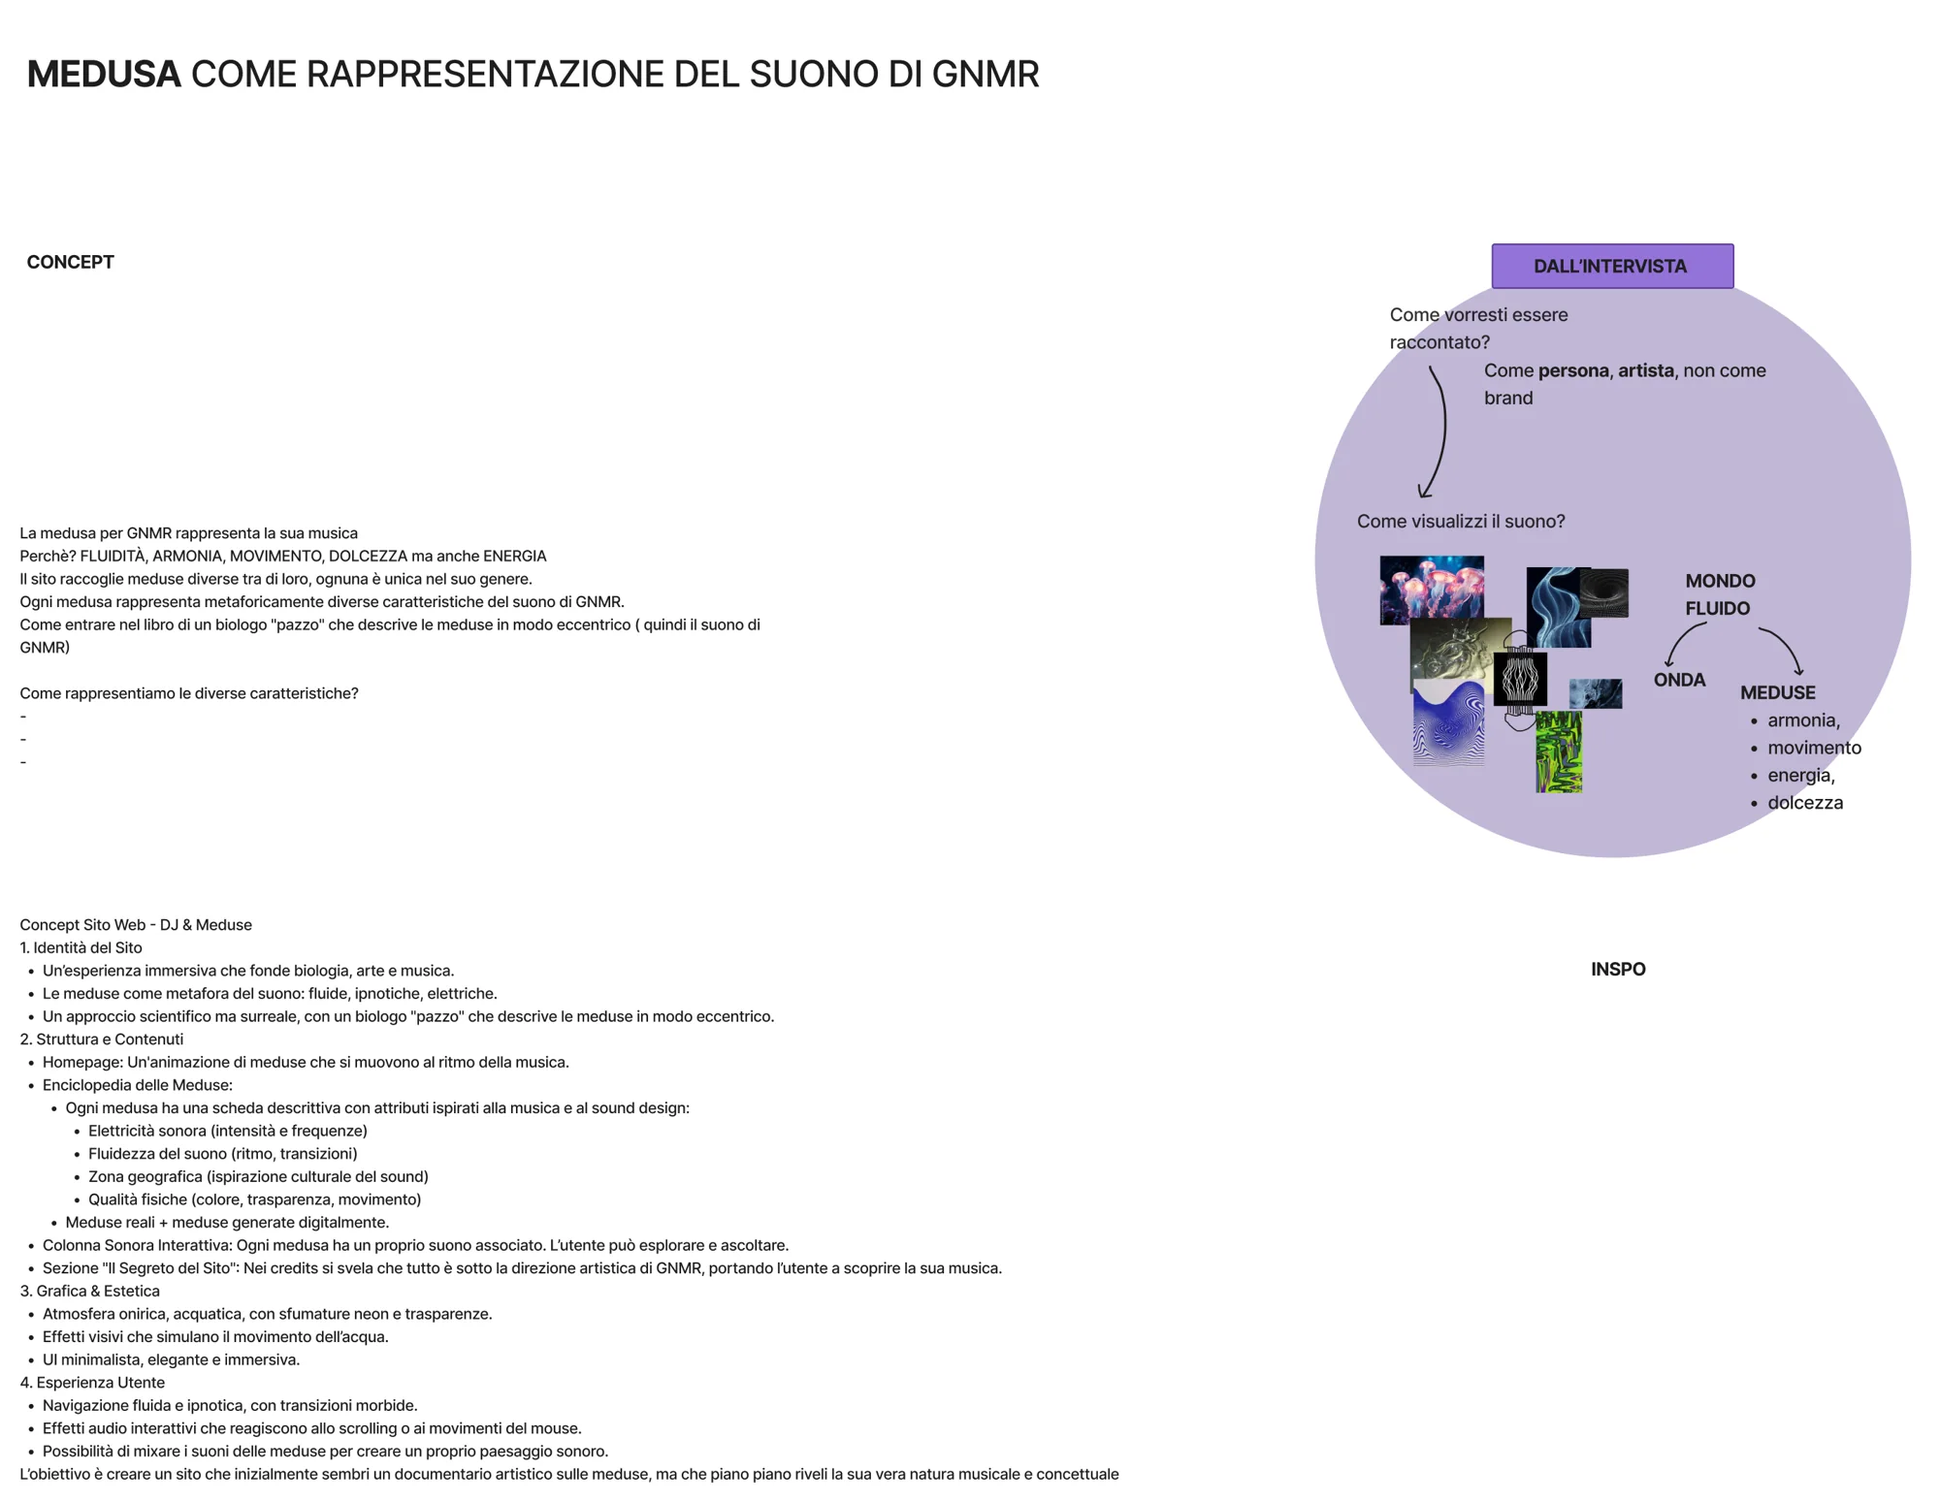
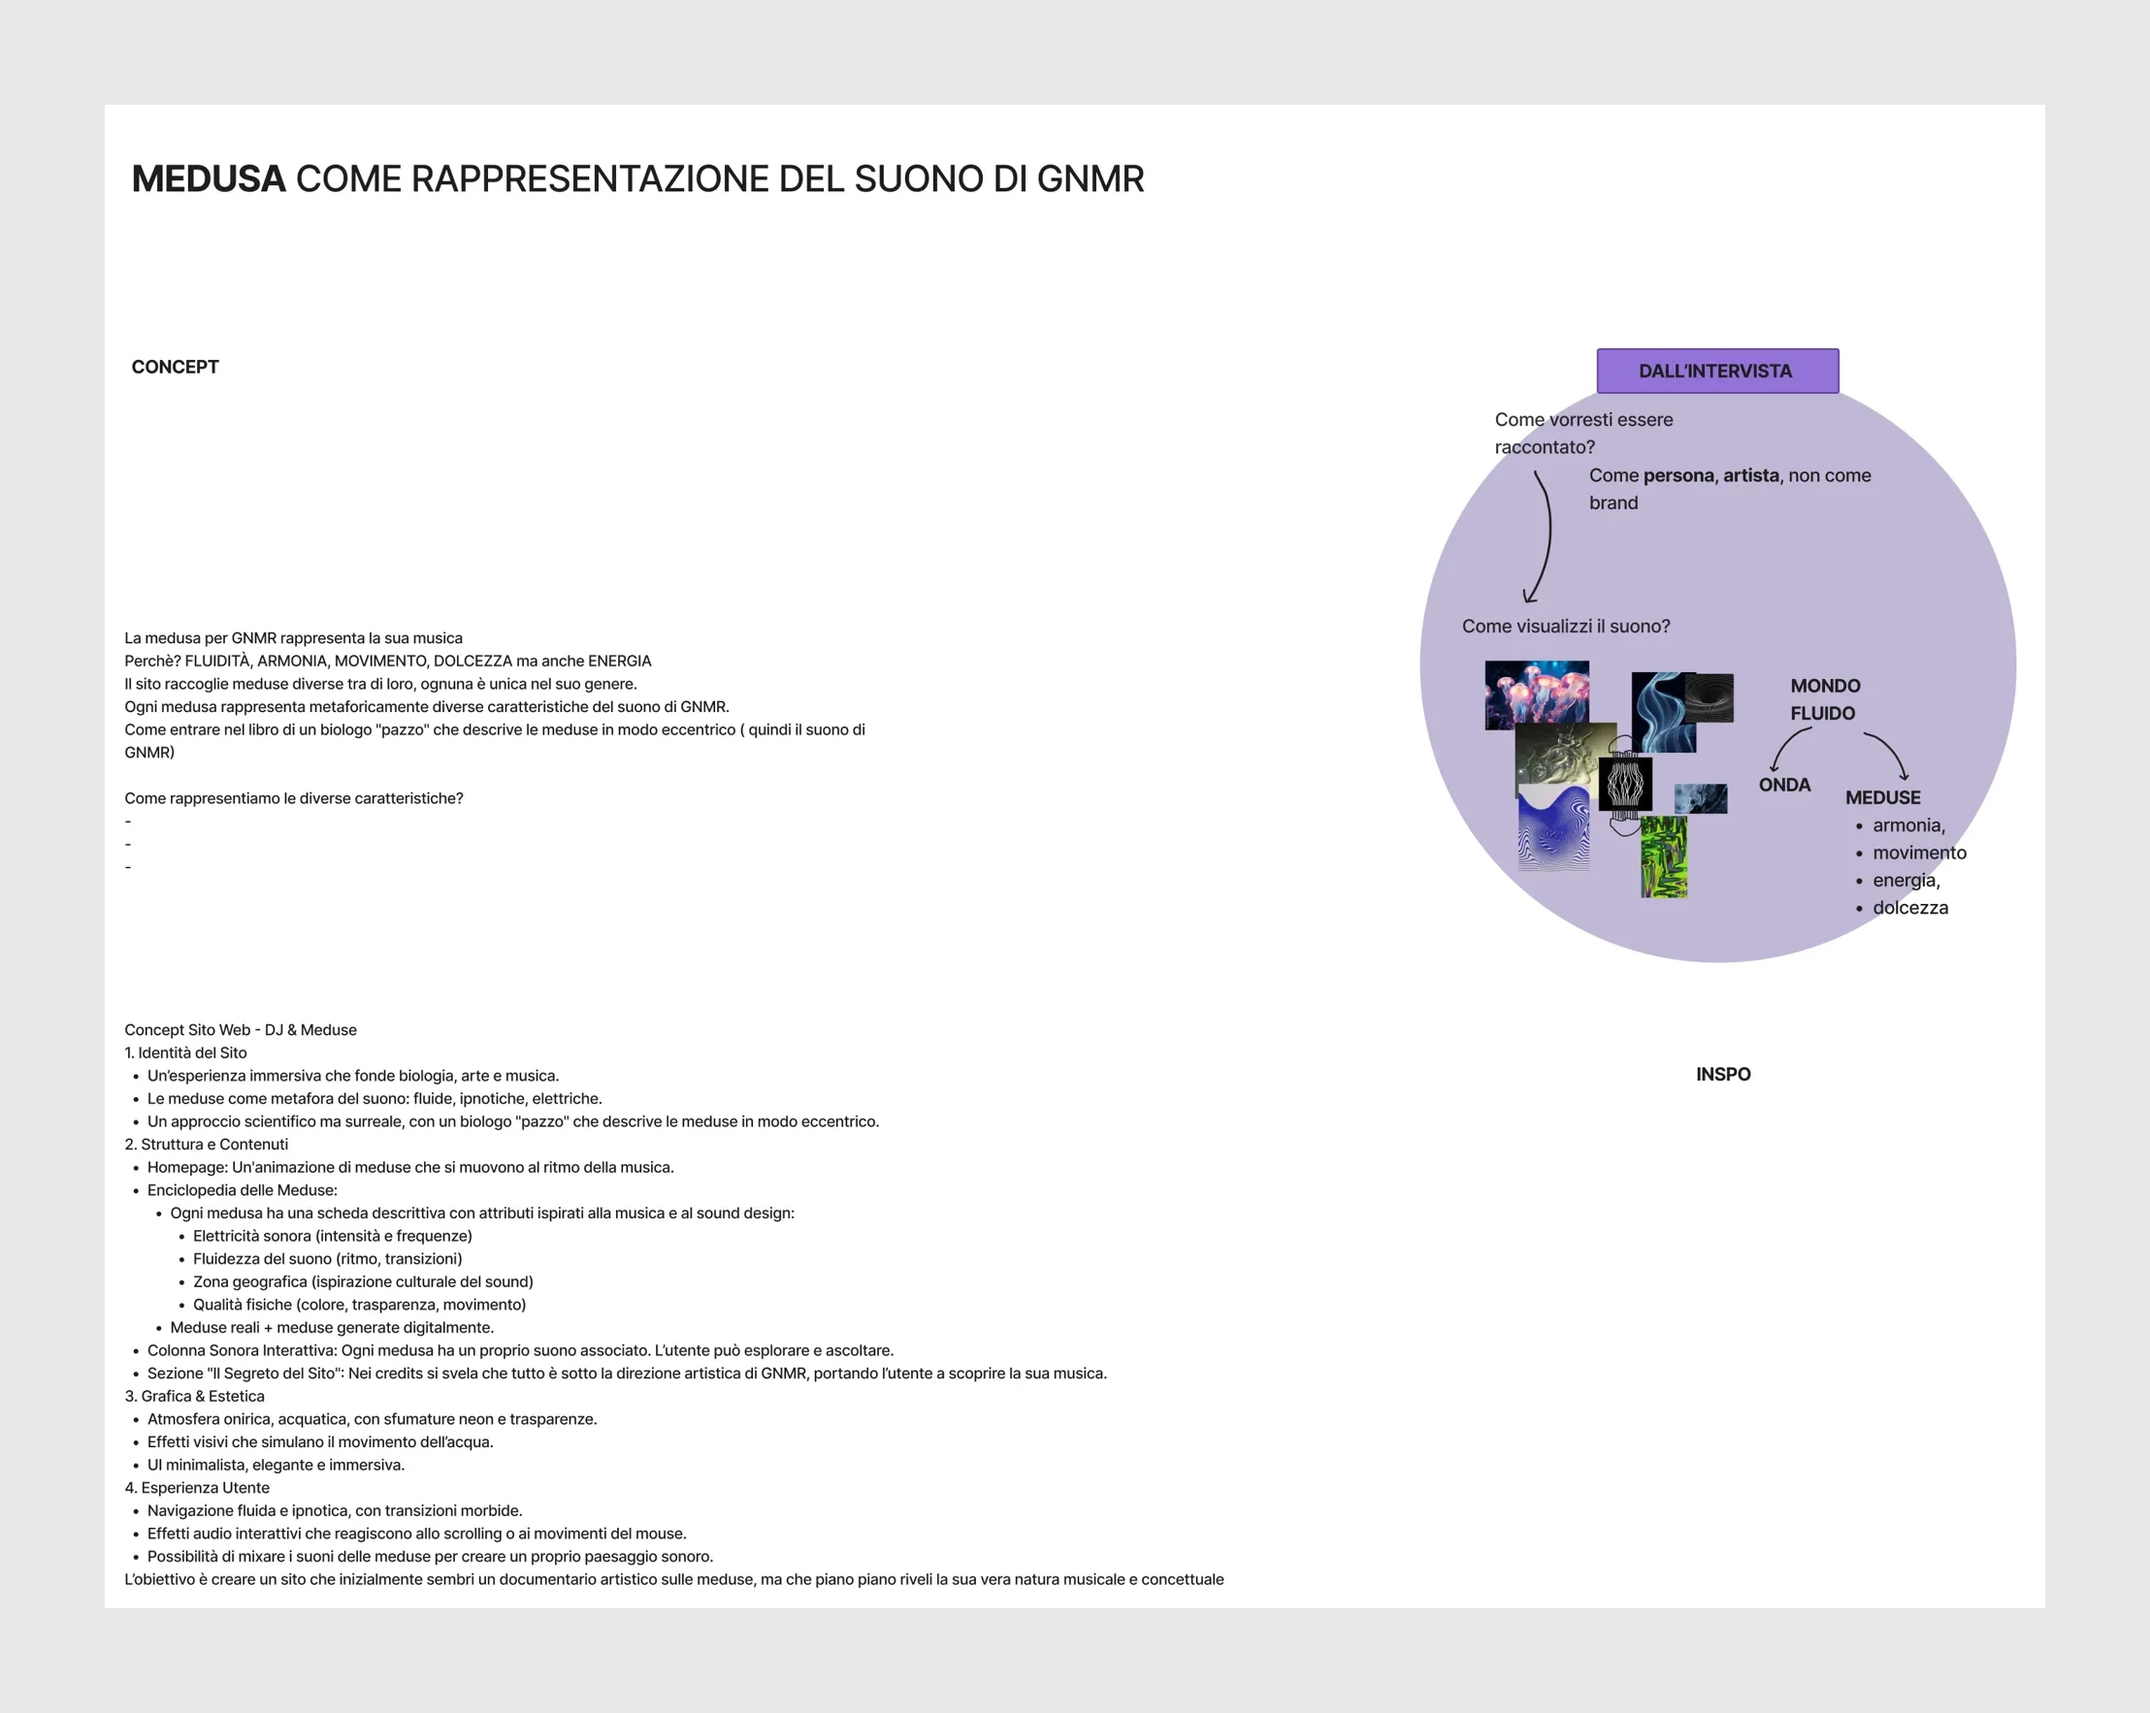
Sound Morphology: tavole della FigJam su fondo grigio come nella lavagna
Claude-Session: https://claude.ai/code/session_01EvswACSyw6Saf2qPUK2J63

diff --git a/v3/sound-morphology.html b/v3/sound-morphology.html
@@ -143,7 +143,7 @@
                 </div>
             </div>
             <div class="figs">
-                <figure class="narrow"><img src="img/sound-morphology/intervista.webp" alt="Appunti dell’intervista sulla lavagna FigJam, divisi per temi" width="1335" height="906" loading="lazy"></figure>
+                <figure class="narrow"><img src="img/sound-morphology/intervista.webp" alt="Appunti dell’intervista sulla lavagna FigJam, divisi per temi" width="1461" height="1032" loading="lazy"></figure>
                 <p class="cap"><span lang="it">Una parte degli appunti dell’intervista sulla lavagna FigJam: in rosso le frasi che sono diventate scelte di progetto.</span><span lang="en">Part of the interview notes on the FigJam board: in red, the lines that became design decisions.</span></p>
             </div>
             <blockquote class="quote">
@@ -170,11 +170,11 @@
                 </div>
             </div>
             <div class="figs">
-                <figure class="narrow"><img src="img/sound-morphology/idee.webp" alt="Post-it con le prime idee di concept: medusa e segnali elettrici, stanze musicate, labirinto web, glitch, viaggio in Sud America" width="1536" height="871" loading="lazy"></figure>
+                <figure class="narrow"><img src="img/sound-morphology/idee.webp" alt="Post-it con le prime idee di concept: medusa e segnali elettrici, stanze musicate, labirinto web, glitch, viaggio in Sud America" width="1656" height="991" loading="lazy"></figure>
                 <p class="cap"><span lang="it">Le prime idee di concept sulla lavagna, tra cui la medusa che trasmette segnali elettrici.</span><span lang="en">The first concept ideas on the board, including the jellyfish that transmits electrical signals.</span></p>
                 <div class="row">
-                    <figure style="flex-grow:1.290"><img src="img/sound-morphology/concept-medusa.webp" alt="Il concept della medusa come rappresentazione del suono di GNMR, con il cerchio delle risposte dell’intervista" width="2000" height="1550" loading="lazy"></figure>
-                    <figure style="flex-grow:1.516"><img src="img/sound-morphology/concept-future-empire.webp" alt="Il concept Future Empire con la copertina dell’EP e le immagini dello scenario post-nucleare" width="1800" height="1187" loading="lazy"></figure>
+                    <figure style="flex-grow:1.255"><img src="img/sound-morphology/concept-medusa.webp" alt="Il concept della medusa come rappresentazione del suono di GNMR, con il cerchio delle risposte dell’intervista" width="2216" height="1766" loading="lazy"></figure>
+                    <figure style="flex-grow:1.453"><img src="img/sound-morphology/concept-future-empire.webp" alt="Il concept Future Empire con la copertina dell’EP e le immagini dello scenario post-nucleare" width="1966" height="1353" loading="lazy"></figure>
                 </div>
                 <p class="cap"><span lang="it">I due concept: la medusa come rappresentazione del suono e lo scenario di Future Empire.</span><span lang="en">The two concepts: the jellyfish as a representation of sound, and the Future Empire landscape.</span></p>
             </div>
@@ -266,8 +266,8 @@
             </div>
             <div class="figs">
                 <div class="row">
-                    <figure style="flex-grow:2.312"><img src="img/sound-morphology/layout.webp" alt="Due prove di layout: menù e scena 3D divisi 30/70, oppure pannello semitrasparente sopra la medusa" width="2000" height="865" loading="lazy"></figure>
-                    <figure style="flex-grow:1.650"><img src="img/sound-morphology/icone.webp" alt="Riferimenti per l’interfaccia in ASCII e una medusa convertita in caratteri" width="1389" height="842" loading="lazy"></figure>
+                    <figure style="flex-grow:2.152"><img src="img/sound-morphology/layout.webp" alt="Due prove di layout: menù e scena 3D divisi 30/70, oppure pannello semitrasparente sopra la medusa" width="2120" height="985" loading="lazy"></figure>
+                    <figure style="flex-grow:1.571"><img src="img/sound-morphology/icone.webp" alt="Riferimenti per l’interfaccia in ASCII e una medusa convertita in caratteri" width="1505" height="958" loading="lazy"></figure>
                 </div>
                 <p class="cap"><span lang="it">A sinistra le due prove di layout; a destra i riferimenti per un’interfaccia fatta solo di linee e testo.</span><span lang="en">Left, the two layout trials; right, references for an interface made only of lines and text.</span></p>
             </div>
